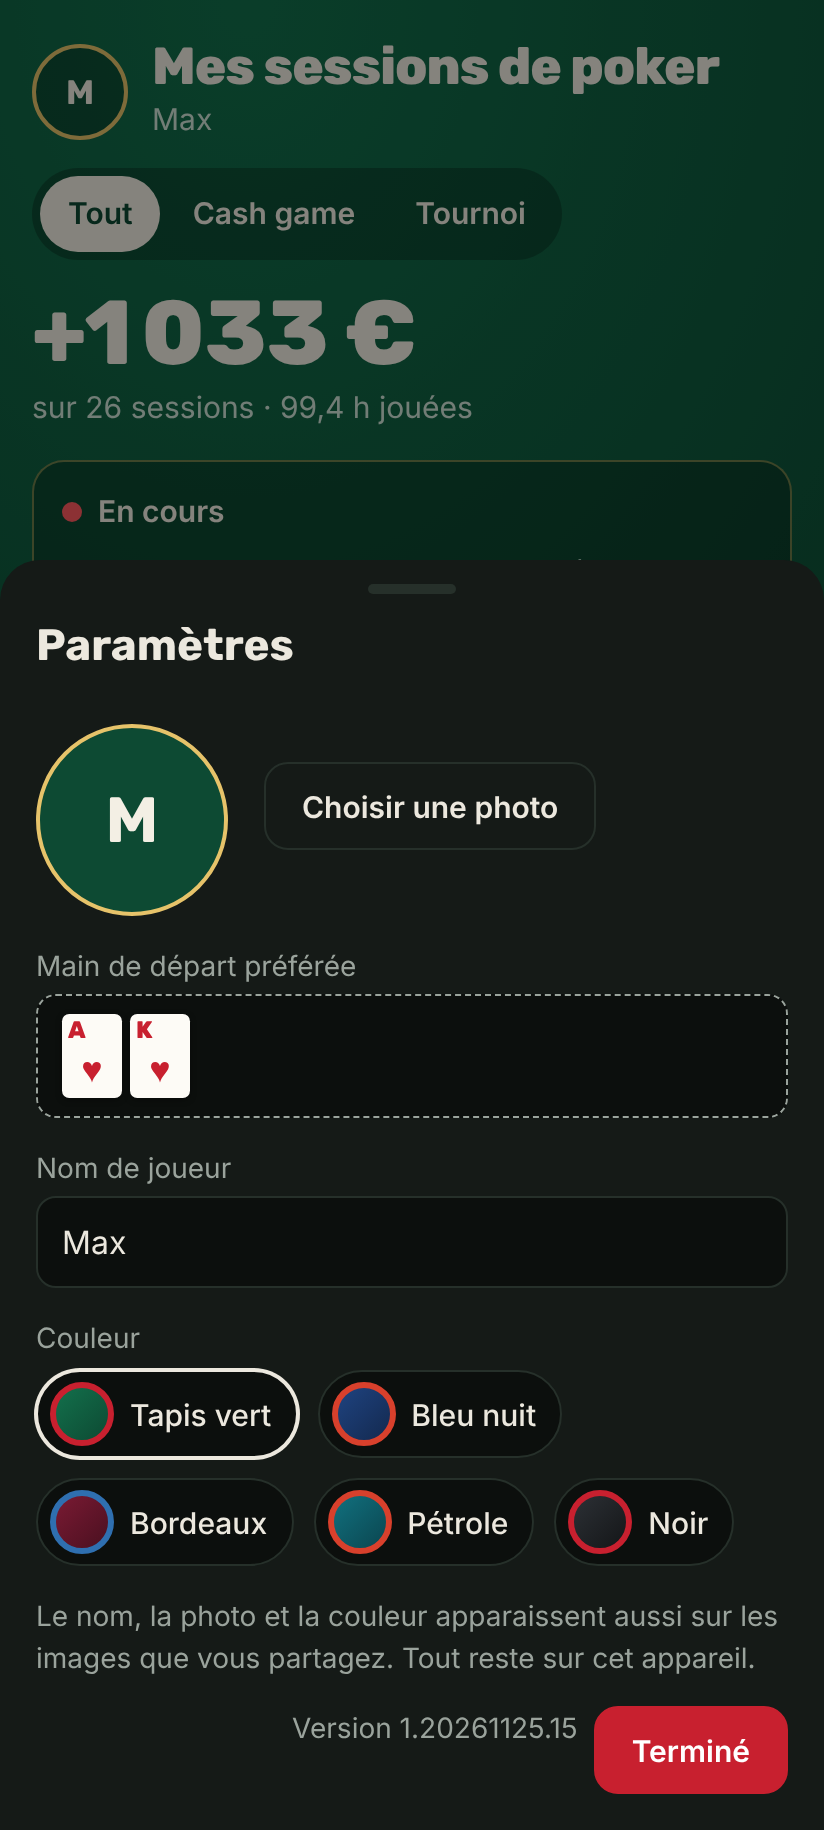
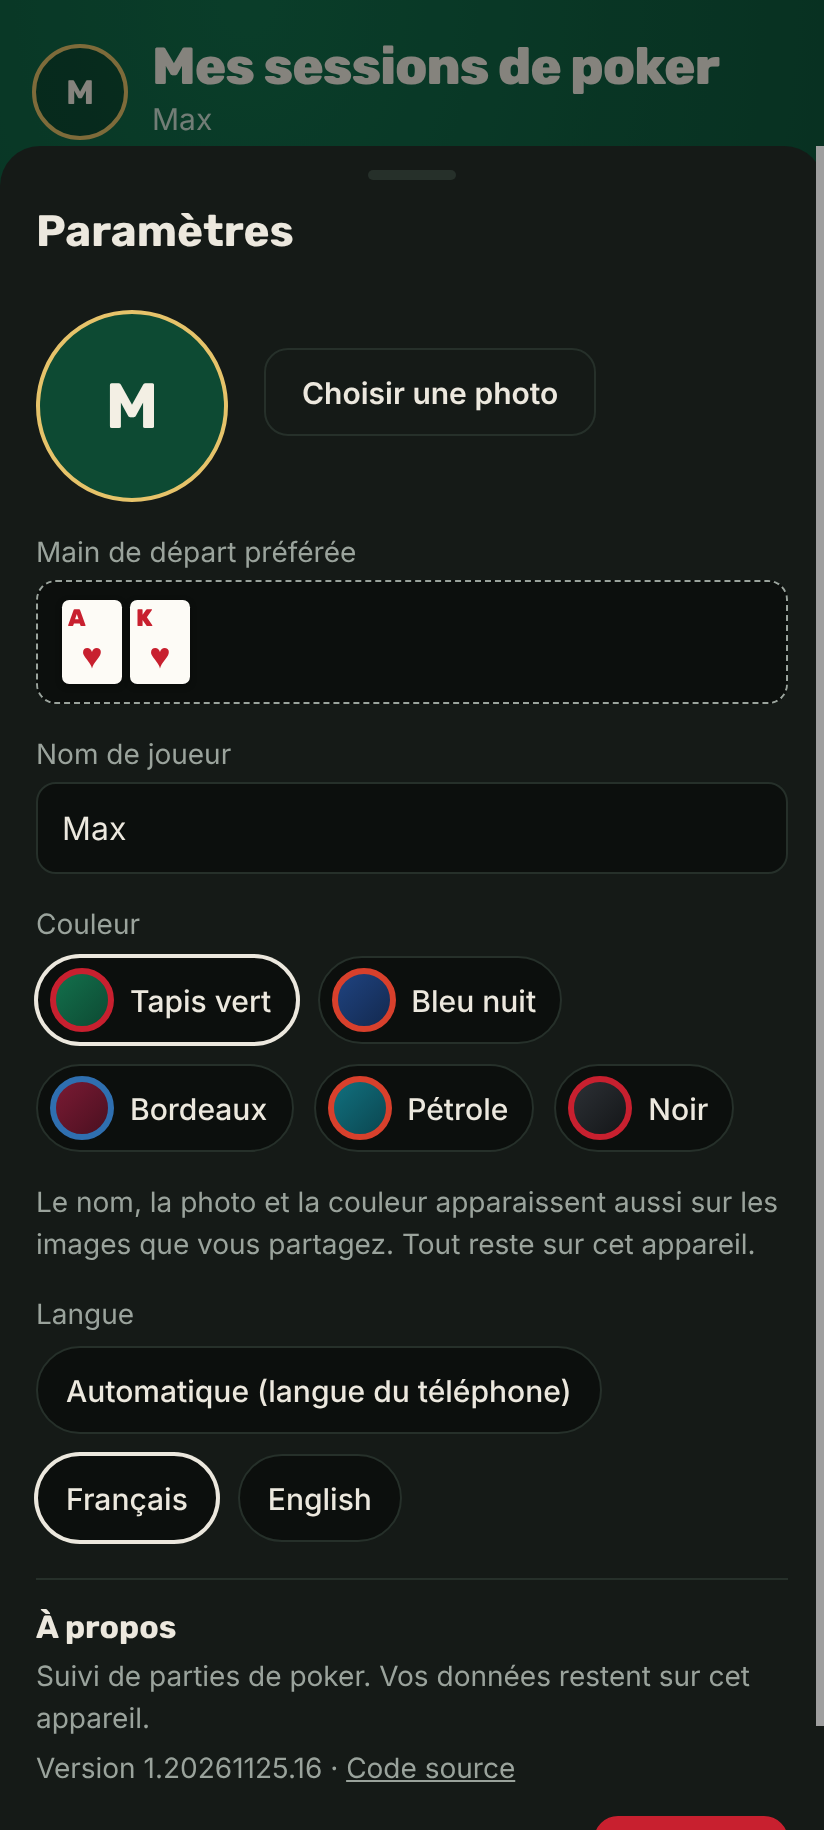
README : captures mises à jour (version 1.20261125.16)
Nouvelle capture Langue et À propos ; mêmes données fictives.

Claude-Session: https://claude.ai/code/session_017HMVdxhZ8qtyyjCT8cCJwj

diff --git a/README.md b/README.md
@@ -11,9 +11,13 @@ Captures réalisées avec des données fictives, sur un écran de téléphone An
 |:---:|:---:|:---:|
 | <img src="docs/screenshots/1-accueil.png" width="240" alt="Accueil : bénéfice cumulé et dernières sessions"> | <img src="docs/screenshots/2-session-en-direct.png" width="240" alt="Session en direct avec chrono et recaves"> | <img src="docs/screenshots/3-analyse.png" width="240" alt="Analyse : chiffres clés, variance, par mois"> |
 
-| Paramètres | Meilleure main | Partage |
+| Paramètres | Langue et À propos | Meilleure main |
 |:---:|:---:|:---:|
-| <img src="docs/screenshots/4-parametres.png" width="240" alt="Paramètres : photo, main préférée, nom, couleur"> | <img src="docs/screenshots/5-meilleure-main.png" width="240" alt="Sélecteur de cartes"> | <img src="docs/screenshots/6-partage.png" width="240" alt="Choix de l'image à partager"> |
+| <img src="docs/screenshots/4-parametres.png" width="240" alt="Paramètres : photo, main préférée, nom, couleur"> | <img src="docs/screenshots/4b-langue-a-propos.png" width="240" alt="Paramètres : langue et section À propos"> | <img src="docs/screenshots/5-meilleure-main.png" width="240" alt="Sélecteur de cartes"> |
+
+| Partage |
+|:---:|
+| <img src="docs/screenshots/6-partage.png" width="240" alt="Choix de l'image à partager"> |
 
 Images à partager (version détaillée et version photo) :
 
